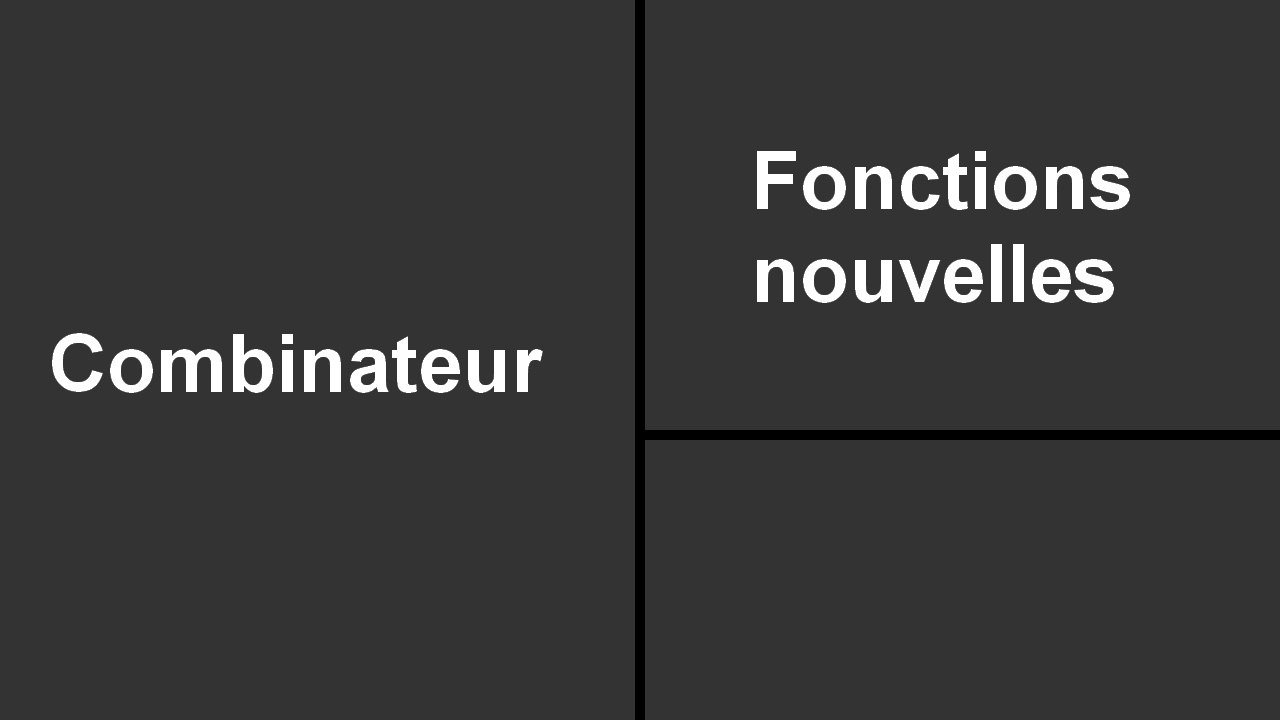
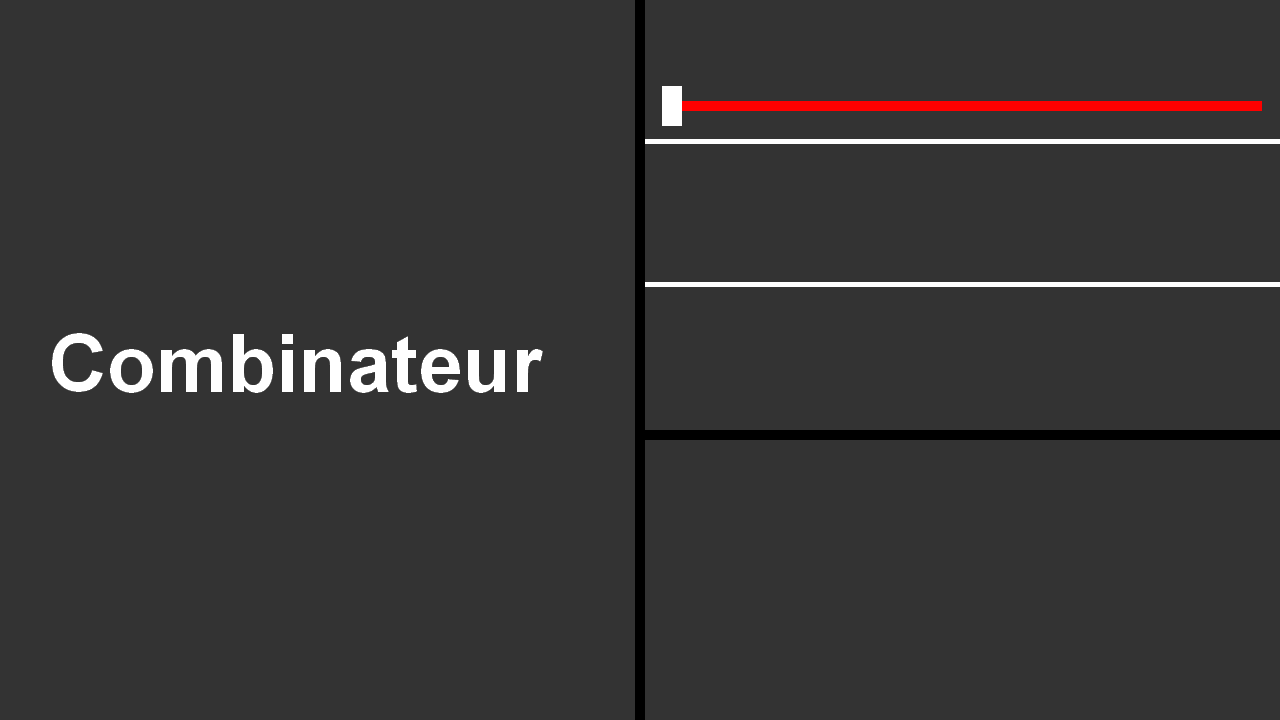
Fonctions nouvelles

Changed region(s): [[0.5, 0.1222, 1.0, 0.3056], [0.5, 0.3361, 1.0, 0.4278]]

diff --git a/lib/osc-web/interface.html b/lib/osc-web/interface.html
@@ -2,8 +2,8 @@
 <head>
   <title>Modulorgue</title>
     <meta charset="UTF-8" />
-    <link rel="stylesheet" type="text/css" media="all" href="osc-view.css"/>
     <link rel="stylesheet" type="text/css" href="css/style.css"/>
+
 
     <script src="node_modules/osc/dist/osc-browser.js"></script>
     <script src="node_modules/flocking/dist/flocking-all.min.js"></script>
@@ -32,8 +32,9 @@
     var pdflute4 = document.getElementById('pdflute4');
     
     // exemple pour valeur continue
-    var modgain = document.getElementById('modgain');
-
+    var trans1val = document.getElementById('trans1val');
+    var trans2val = document.getElementById('trans2val');
+	var trans2val = document.getElementById('trans2val');
     // récupération des messages depuis pd
     ws.onmessage = function(mess) {
           console.log(mess.data);
@@ -56,6 +57,10 @@
 			else if (packet.address == "/registres/pedale/bourdon/16") pdbourdon16.checked = packet.args[0];
 			else if (packet.address == "/registres/pedale/bourdon/8") pdbourdon8.checked = packet.args[0];
 			else if (packet.address == "/registres/pedale/flute/4") pdflute4.checked = packet.args[0];
+			else if (packet.address == "/registres/nfonctionscl2/transpo.1/valeur") trans1val.value = packet.args[0];
+			else if (packet.address == "/registres/nfonctionscl2/transpo.2/valeur") trans2val.value = packet.args[0];
+			else if (packet.address == "/registres/nfonctionscl2/transpo.2/valeur") trans2val.value = packet.args[0];
+			//console.log('{ "/nfonctionscl2/transpo.2/valeur": ' + trans2val.value + '}');
 			      });
             }
             
@@ -116,12 +121,22 @@
       };
       
       // exemple pour valeur continue
-	  /*
-	  modgain.oninput = function(ev) {
-              ws.send('{ "/modgain": ' + modgain.value + '}');
-              console.log('{ "/modgain": ' + modgain.value + '}');
+	  
+	  trans2val.oninput = function(ev) {
+              ws.send('{ "/registres/nfonctionscl2/transpo.2/valeur": ' + trans2val.value + '}');
+              console.log('{ "/registres/nfonctionscl2/transpo.2/valeur": ' + trans2val.value + '}');
       };
-	  */
+	  
+	  trans1val.oninput = function(ev) {
+              ws.send('{ "/registres/nfonctionscl2/transpo.1/valeur": ' + trans2val.value + '}');
+              console.log('{ "/registres/nfonctionscl2/transpo.1/valeur": ' + trans2val.value + '}');
+      };
+	  
+	  trans2val.oninput = function(ev) {
+              ws.send('{ "/registres/nfonctionscl2/transpo.2/valeur": ' + trans2val.value + '}');
+              console.log('{ "/registres/nfonctionscl2/transpo.2/valeur": ' + trans2val.value + '}');
+      };
+	  
     }
 </script>
 
@@ -131,8 +146,14 @@
 			 background-size: 1280px 720px;">
 <body onload="init()">
 <table>
-    
-<div class="registres">
+
+<div class='fonctionsslide'>
+ <span style="position: fixed; top: 95px; left: 662px;"><input id="trans1val" type="range" min="0" max="36" value="0"/></td></tr></span>
+ <span style="position: fixed; top: 238px; left: 662px;"><input id="trans2val" type="range" min="0" max="36" value="0"/></td></tr></span>
+ <span style="position: fixed; top: 386px; left: 662px;"><input id="trans2val" type="range" min="0" max="100" value="0"/></td></tr></span>
+ </div>
+ 
+<div class='registres'>
  <span style="position: fixed; top: 450px; left: 655px;"><input id="c2bourdon16" type="checkbox"/><label for="c2bourdon16">Bourdon<br>16'</label></span>
  <span style="position: fixed; top: 450px; left: 780px;"><input id="c2bourdon8" type="checkbox"/><label for="c2bourdon8">Bourdon<br>8'</label></span>
  <span style="position: fixed; top: 450px; left: 905px;"><input id="c2flute4" type="checkbox"/><label for="c2flute4">Flûte<br>4'</label></span>
@@ -147,8 +168,8 @@
  <span style="position: fixed; top: 630px; left: 780px;"><input id="pdbourdon8" type="checkbox"/><label for="pdbourdon8">Bourdon<br>8'</label></span>
  <span style="position: fixed; top: 630px; left: 905px;"><input id="pdflute4" type="checkbox"/><label for="pdflute4">Flûte<br>4'</label></span>
  </div>
- 
 </table>
+
 </body>
 </body>
 </html>

diff --git a/lib/osc-web/css/style.css b/lib/osc-web/css/style.css
@@ -6,7 +6,7 @@
   user-select: none;
 }
 
-input {
+input[type="checkbox"] {
   position: absolute;
   left: -9999px;
 }
@@ -27,7 +27,7 @@ label {
   vertical-align: middle;
 }
 
-input:checked + label {
+input[type="checkbox"]:checked + label {
   display: table-cell;
   background-color: #FFEB8E;
   width: 103px;
@@ -37,4 +37,39 @@ input:checked + label {
   font-size:20px;
   font-weight:bold;
   color: #000000;
+}
+
+input[type=range] {
+  position: fixed;
+  height: 10px;
+  -webkit-appearance: none;
+  width: 600px;
+  background-color: transparent;
+}
+input[type=range]:focus {
+  outline: none;
+}
+/* la zone de déplacement */
+input[type=range]::-webkit-slider-runnable-track {
+  width: 600px;
+  height: 10px;
+  box-shadow: 1px 1px 1px #000000;
+  background: #0010FF;
+  border-radius: 5px;
+  border: 1px solid #000000;
+}
+/* le curseur */
+input[type=range]::-webkit-slider-thumb {
+  box-shadow: 1px 1px 1px #000000;
+  border: 1px solid #000469;
+  height: 40px;
+  width: 20px;
+  border-radius: 5px;
+  background: #FFFFFF;
+  -webkit-appearance: none;
+  margin-top: -15px;
+}
+
+input[type=range]:focus::-webkit-slider-runnable-track {
+  background: #0010FF;
 }

diff --git a/lib/osc-web/osc-view.css b/lib/osc-web/osc-view.css
@@ -1,8 +1,8 @@
-#toolbar {
-    padding: 0.5em 0.5em 0.75em 0.5em;
+toolbar {
+    padding: 0.90em 0.5em 0.75em 0.5em;
 }
 
-#messageArea {
+messageArea {
     color: #fff;
     background-color: #aaa;
     border-radius: 10px;
@@ -12,24 +12,24 @@
     width: 98%;
 }
 
-#udpStatus {
+udpStatus {
     float: right;
     font-size: 75%;
     font-style: italic;
     padding-top: 0.5em;
 }
 
-#messageLabel {
+messageLabel {
     font-weight: bold;
 }
 
-#message {
+message {
     font-family: monospace;
     font-size: 148%;
 }
 
 button {
-    font-size: 150%;
+    font-size: 190%;
     border: none;
     border-radius: 0.5em;
     padding: 0.4em;
